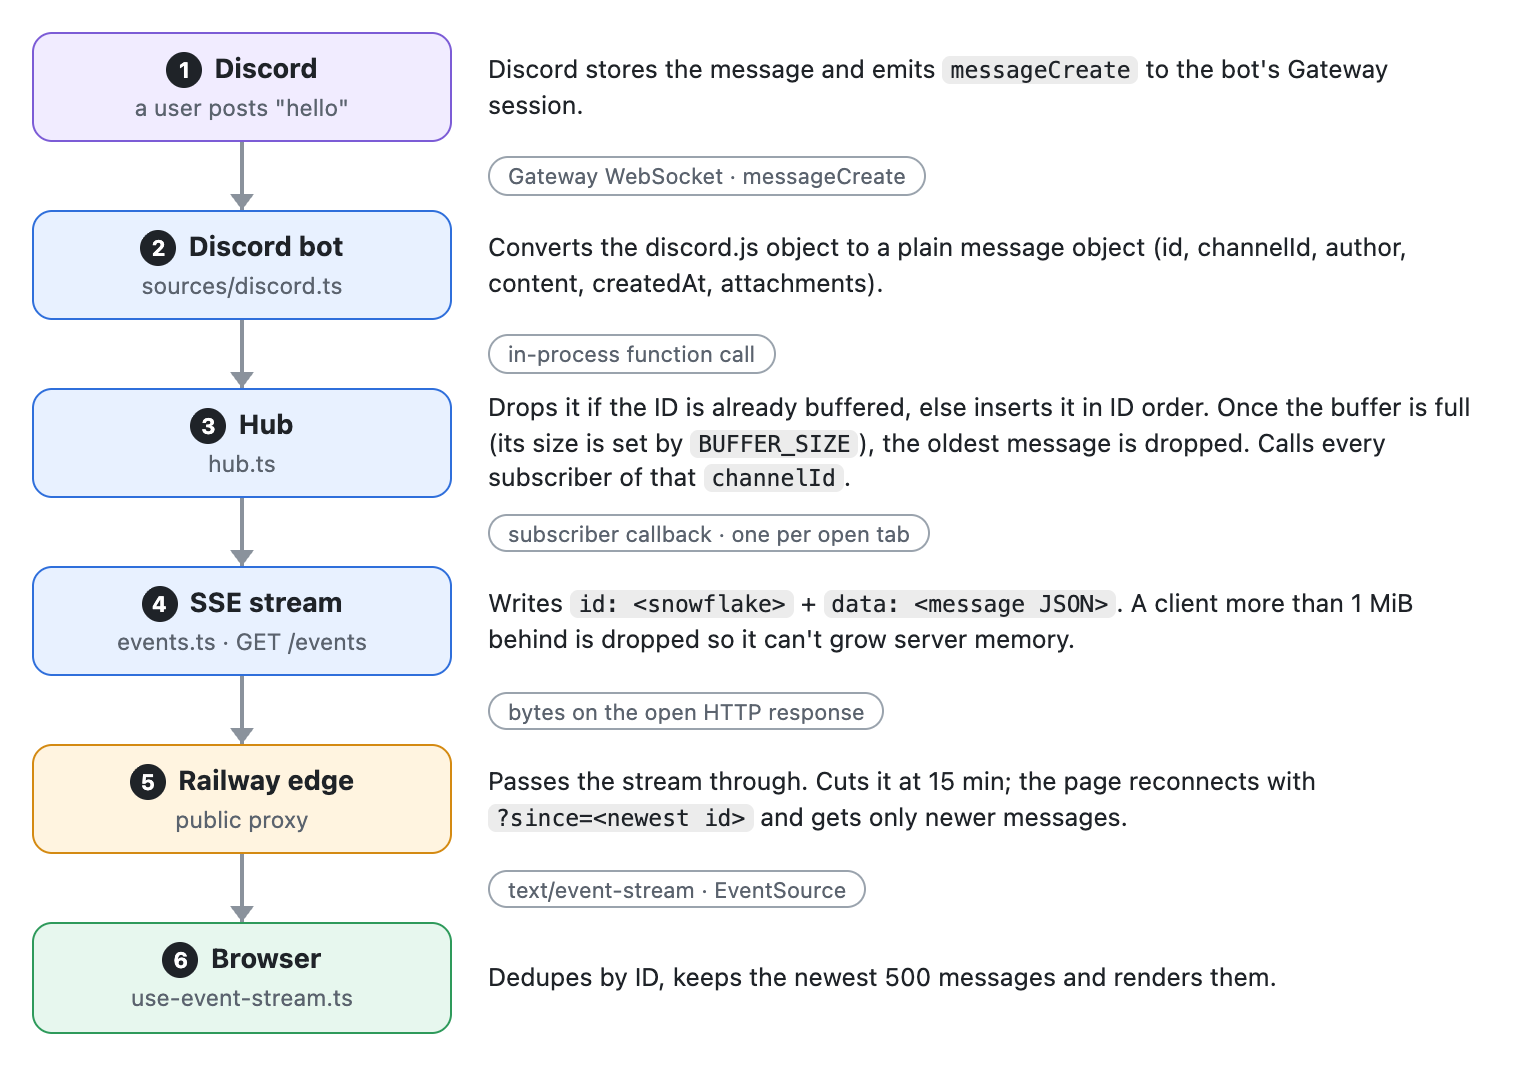
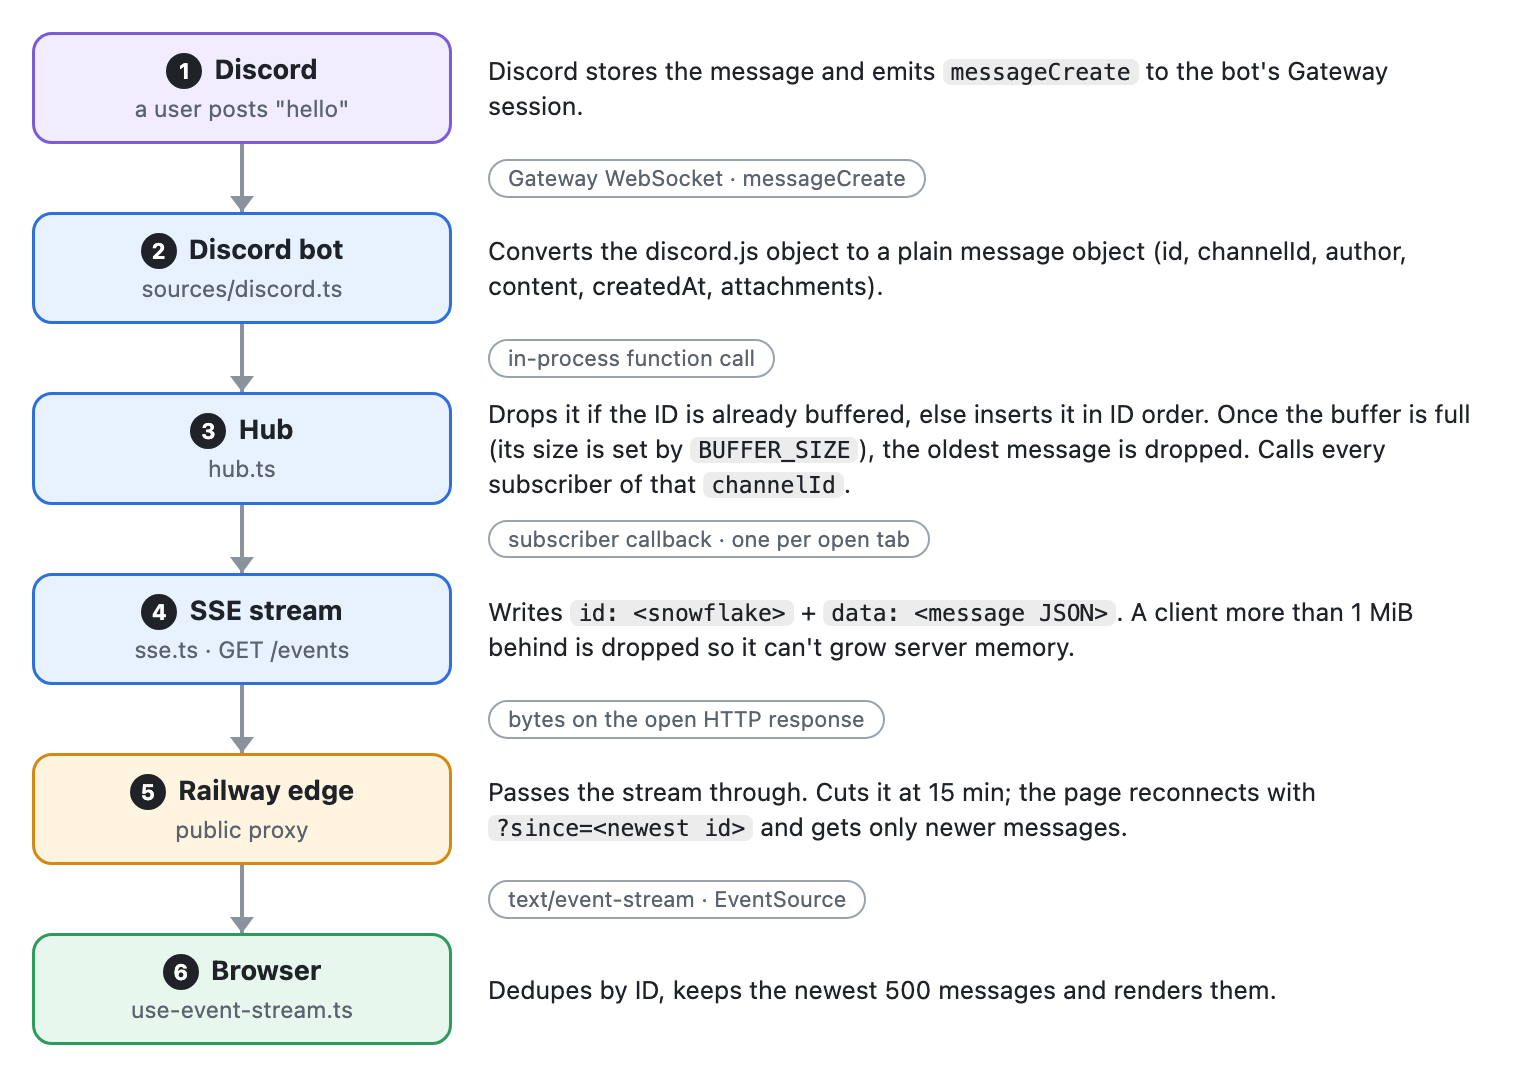
Group the backend into http/, core/ and platform/ with tests mirroring them, and rename events.ts to sse.ts.

diff --git a/docs/images/message-flow.html b/docs/images/message-flow.html
@@ -22,7 +22,7 @@ code{font:11.5px ui-monospace,Menlo,monospace;background:rgba(127,127,127,.15);p
 <div class="n our"><b><span class="num">3</span>Hub</b><small>hub.ts</small></div>
 <div class="d">Drops it if the ID is already buffered, else inserts it in ID order. Once the buffer is full (its size is set by <code>BUFFER_SIZE</code>), the oldest message is dropped. Calls every subscriber of that <code>channelId</code>.</div>
 <div class="v"><span class="ln"></span></div><div class="t"><span class="chip">subscriber callback · one per open tab</span></div>
-<div class="n our"><b><span class="num">4</span>SSE stream</b><small>events.ts · GET /events</small></div>
+<div class="n our"><b><span class="num">4</span>SSE stream</b><small>sse.ts · GET /events</small></div>
 <div class="d">Writes <code>id: &lt;snowflake&gt;</code> + <code>data: &lt;message JSON&gt;</code>. A client more than 1 MiB behind is dropped so it can't grow server memory.</div>
 <div class="v"><span class="ln"></span></div><div class="t"><span class="chip">bytes on the open HTTP response</span></div>
 <div class="n inf"><b><span class="num">5</span>Railway edge</b><small>public proxy</small></div>

diff --git a/backend/server.ts b/backend/server.ts
@@ -1,12 +1,12 @@
 import index from '../frontend/index.html'
-import { loadConfig, type Config } from './config.ts'
-import { createEventStreams, type EventStreamDeps } from './events.ts'
-import { DEFAULT_FLAGS, startFlags, type Flags } from './flags.ts'
-import { createHub } from './hub.ts'
-import { errorMessage, log } from './log.ts'
-import { startMetrics } from './metrics.ts'
+import { loadConfig, type Config } from './platform/config.ts'
+import { createEventStreams, type EventStreamDeps } from './http/sse.ts'
+import { DEFAULT_FLAGS, startFlags, type Flags } from './platform/flags.ts'
+import { createHub } from './core/hub.ts'
+import { errorMessage, log } from './platform/log.ts'
+import { startMetrics } from './platform/metrics.ts'
 import { startDiscord } from './sources/discord.ts'
-import type { ChannelInfo } from './types.ts'
+import type { ChannelInfo } from './core/types.ts'
 
 /** What `startServer` needs; passed in so tests can supply their own. */
 export type ServerDeps = EventStreamDeps & {

diff --git a/.railway/railway.ts b/.railway/railway.ts
@@ -36,7 +36,7 @@ export default defineRailway(() => {
       CHANNEL_ID: preserve(),
       // Messages kept per channel and loaded at startup, 1 to 500 (TASK-007).
       BUFFER_SIZE: '100',
-      // Project token for reading Railway Feature Flags at runtime (backend/flags.ts). Sealed; set once in Railway.
+      // Project token for reading Railway Feature Flags at runtime (backend/platform/flags.ts). Sealed; set once in Railway.
       // The flags themselves (attachments, edits-deletes, debug-panel) live in Project Settings → Feature Flags.
       RAILWAY_TOKEN: preserve(),
       // Bun.serve bundles the page in development mode (no minify, hot reload) unless this is set.

diff --git a/backend/tests/http/sse.test.ts b/backend/tests/http/sse.test.ts
@@ -1,8 +1,8 @@
 import { describe, expect, it, spyOn } from 'bun:test'
 import net from 'node:net'
-import { createHub } from '../hub.ts'
-import { encodeEvent, formatEvent, MAX_CONNECTIONS_PER_IP } from '../events.ts'
-import { CHANNEL, CHANNEL_2, captureLogs, makeMsg, openEvents, start, stops, waitFor } from './helpers.ts'
+import { createHub } from '../../core/hub.ts'
+import { encodeEvent, formatEvent, MAX_CONNECTIONS_PER_IP } from '../../http/sse.ts'
+import { CHANNEL, CHANNEL_2, captureLogs, makeMsg, openEvents, start, stops, waitFor } from '../helpers.ts'
 
 describe('the delete event', () => {
   const OLD = '1302000000000000001'

diff --git a/load-tests/producer.ts b/load-tests/producer.ts
@@ -2,8 +2,8 @@
  * Simulated message producer and resource stats for a load test. load-tests/server.ts uses it, and a
  * test of the live service wires it into a temporary, uncommitted deploy (see README, Load test).
  */
-import type { Hub } from '../backend/hub.ts'
-import type { Msg } from '../backend/types.ts'
+import type { Hub } from '../backend/core/hub.ts'
+import type { Msg } from '../backend/core/types.ts'
 
 /** Above any real snowflake, so simulated messages sort last. The last 10 digits are the sequence number. */
 const ID_BASE = 1_900_000_000n * 10_000_000_000n

diff --git a/backend/tests/platform/metrics.test.ts b/backend/tests/platform/metrics.test.ts
@@ -1,7 +1,7 @@
 import { afterEach, describe, expect, it, mock, spyOn } from 'bun:test'
-import { createHub } from '../hub.ts'
-import { log } from '../log.ts'
-import { formatMetrics, pushMetrics, readSnapshot, type Snapshot } from '../metrics.ts'
+import { createHub } from '../../core/hub.ts'
+import { log } from '../../platform/log.ts'
+import { formatMetrics, pushMetrics, readSnapshot, type Snapshot } from '../../platform/metrics.ts'
 
 const out = spyOn(console, 'log').mockImplementation(() => {})
 afterEach(() => out.mockClear())

diff --git a/load-tests/server.ts b/load-tests/server.ts
@@ -2,8 +2,8 @@
  * The real hub and HTTP server with a simulated producer instead of Discord, plus a control port
  * (PORT + 1) for the load runner: GET /stats, GET /clock, POST /rate?perSec=n, POST /publish.
  */
-import { DEFAULT_FLAGS } from '../backend/flags.ts'
-import { createHub } from '../backend/hub.ts'
+import { DEFAULT_FLAGS } from '../backend/platform/flags.ts'
+import { createHub } from '../backend/core/hub.ts'
 import { startServer } from '../backend/server.ts'
 import { startLoadControl } from './producer.ts'
 

diff --git a/frontend/tests/components/top-bar.test.tsx b/frontend/tests/components/top-bar.test.tsx
@@ -2,7 +2,7 @@ import { setupDom } from '../dom.ts'
 import { describe, expect, it, mock } from 'bun:test'
 import { fireEvent, render } from '@testing-library/react'
 import { ThemeProvider } from '@mui/material/styles'
-import type { ChannelInfo } from '../../../backend/types.ts'
+import type { ChannelInfo } from '../../../backend/core/types.ts'
 import { StatusChip, TopBar } from '../../components/top-bar.tsx'
 import type { Status } from '../../lib/stream.ts'
 import { theme } from '../../theme.ts'

diff --git a/frontend/components/top-bar.tsx b/frontend/components/top-bar.tsx
@@ -11,7 +11,7 @@ import Toolbar from '@mui/material/Toolbar'
 import Tooltip from '@mui/material/Tooltip'
 import Typography from '@mui/material/Typography'
 import { keyframes, useColorScheme } from '@mui/material/styles'
-import type { ChannelInfo } from '../../backend/types.ts'
+import type { ChannelInfo } from '../../backend/core/types.ts'
 import { recoveredLabel, type Status } from '../lib/stream.ts'
 import { BAR_HEIGHT, COARSE, GROUND, NARROW, VISUALLY_HIDDEN } from '../theme.ts'
 

diff --git a/frontend/components/attachments.tsx b/frontend/components/attachments.tsx
@@ -4,7 +4,7 @@ import ButtonBase from '@mui/material/ButtonBase'
 import Link from '@mui/material/Link'
 import SvgIcon from '@mui/material/SvgIcon'
 import Typography from '@mui/material/Typography'
-import type { Attachment } from '../../backend/types.ts'
+import type { Attachment } from '../../backend/core/types.ts'
 import { attachmentKind, fitBox, formatBytes, isDiscordCdn } from '../lib/media.ts'
 
 /** Largest box an inline image or video takes in the feed. */

diff --git a/backend/sources/discord.ts b/backend/sources/discord.ts
@@ -1,6 +1,6 @@
 import { Client, Events, GatewayIntentBits, Partials } from 'discord.js'
-import { errorMessage, log } from '../log.ts'
-import { compareIds, type ChannelInfo, type Msg } from '../types.ts'
+import { errorMessage, log } from '../platform/log.ts'
+import { compareIds, type ChannelInfo, type Msg } from '../core/types.ts'
 import { isMissingContent, toMsg, type MessageLike } from './discord-message.ts'
 import { createWatchdog } from './watchdog.ts'
 

diff --git a/frontend/components/message-row.tsx b/frontend/components/message-row.tsx
@@ -6,7 +6,7 @@ import Button from '@mui/material/Button'
 import Chip from '@mui/material/Chip'
 import Typography from '@mui/material/Typography'
 import { keyframes } from '@mui/material/styles'
-import type { Msg } from '../../backend/types.ts'
+import type { Msg } from '../../backend/core/types.ts'
 import type { FeedScroll } from '../hooks/use-stick-to-bottom.ts'
 import { parseMarkup } from '../lib/markup.ts'
 import { isDiscordCdn } from '../lib/media.ts'
